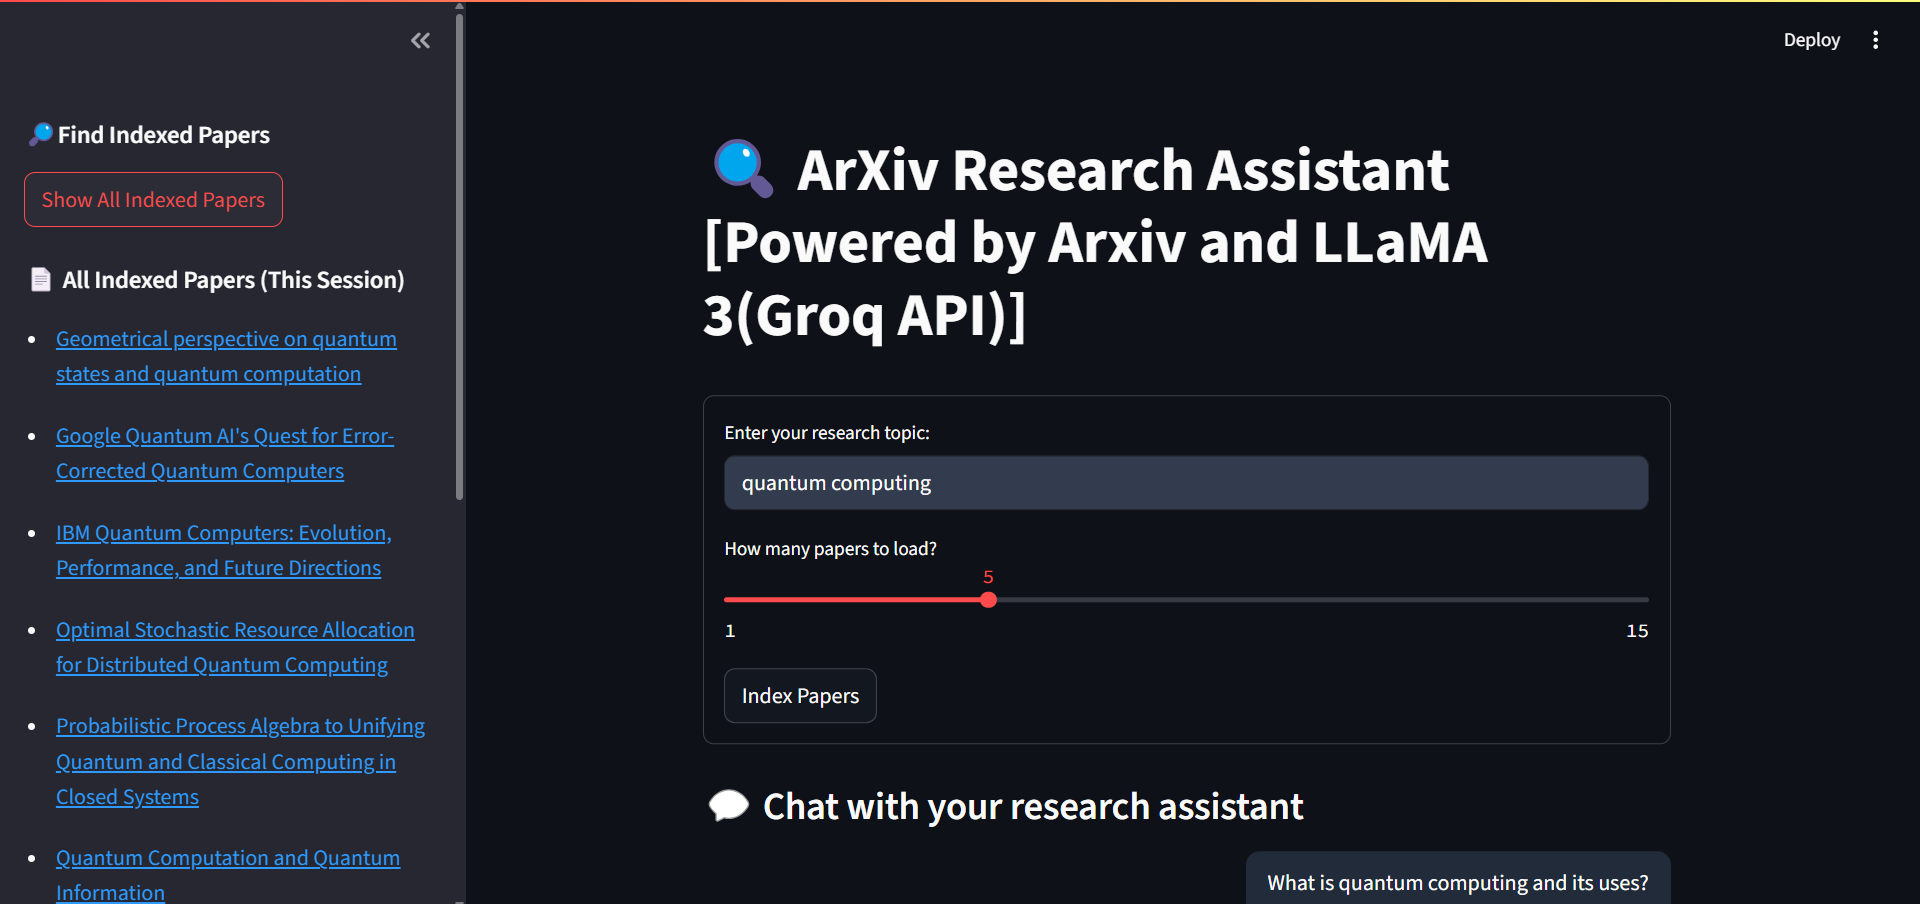
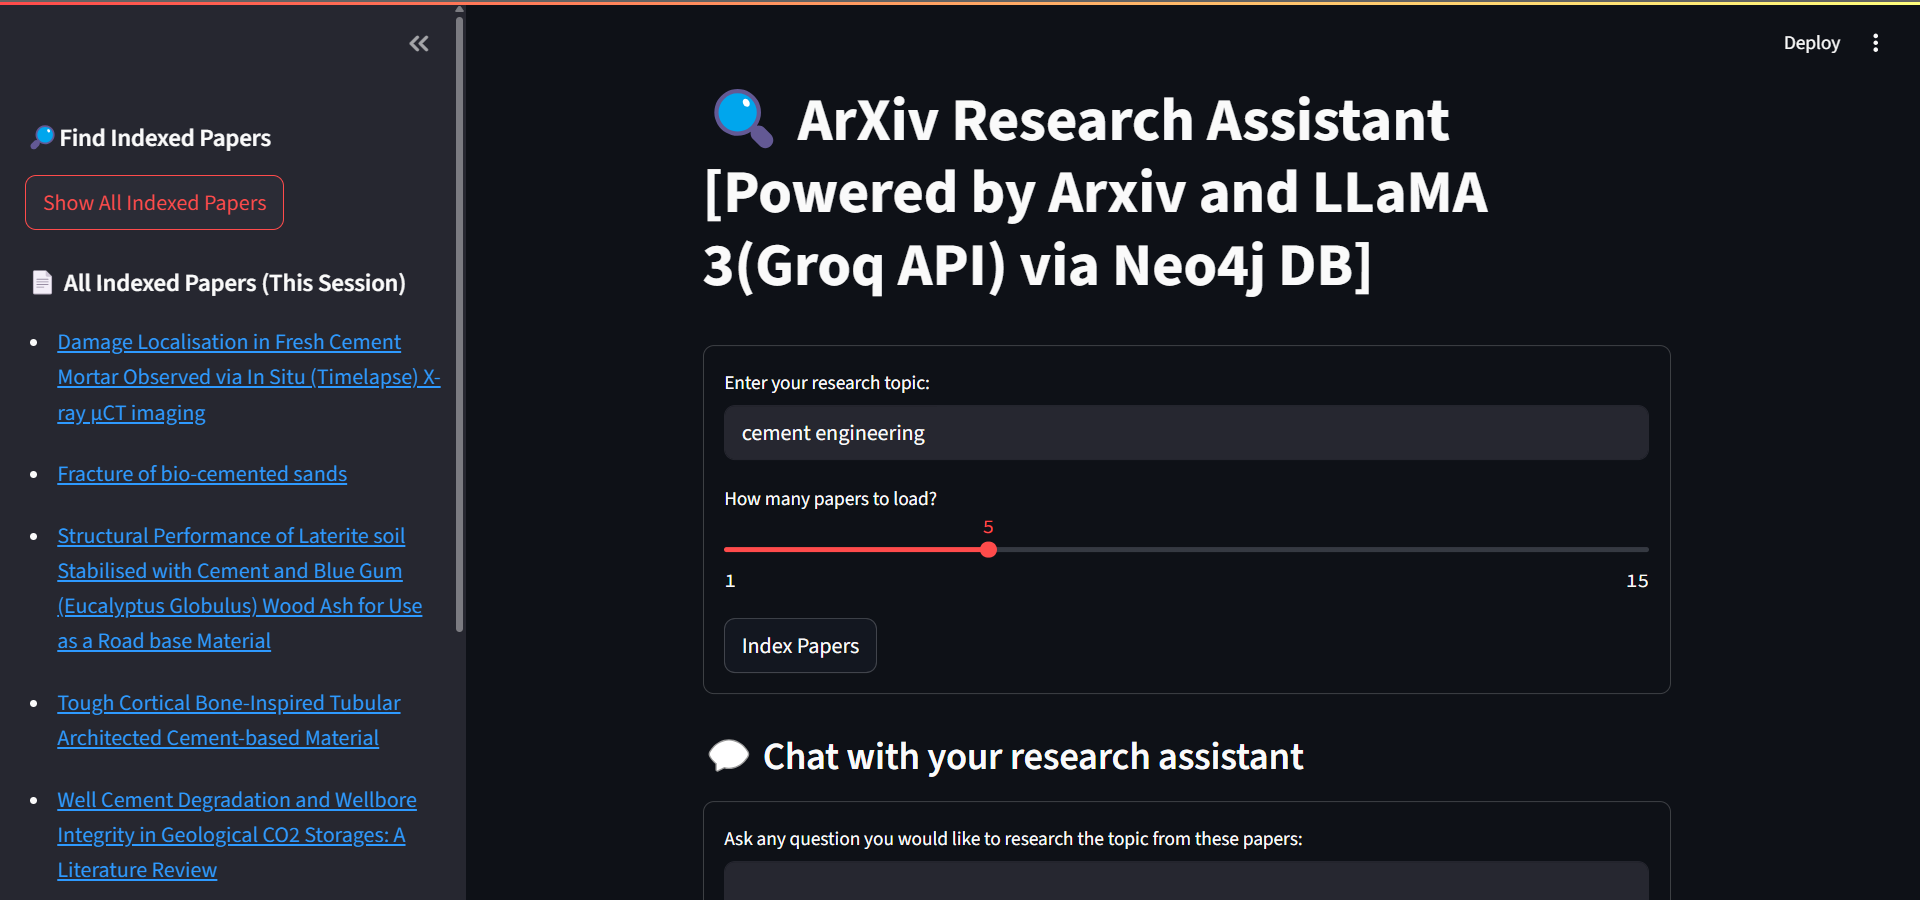
Added groq api  key authentication and neo4j secrets

diff --git a/app.py b/app.py
@@ -2,7 +2,7 @@ import streamlit as st
 from rag_chain import build_rag_chain
 from rag_loader import load_and_index_arxiv
 
-st.title("🔍 ArXiv Research Assistant [Powered by Arxiv and LLaMA 3(Groq API)]")
+st.title("🔍 ArXiv Research Assistant [Powered by Arxiv and LLaMA 3(Groq API) via Neo4j DB]")
 
 # Minimal chat bubble CSS
 st.markdown("""
@@ -29,6 +29,33 @@ st.markdown("""
 </style>
 """, unsafe_allow_html=True)
 
+# --- Ask for API keys/passwords before anything else ---
+if "groq_api_key" not in st.session_state:
+    st.markdown("""
+    **ArXiv Research Assistant**  
+    This app lets you search, index, and chat with ArXiv papers using LLaMA 3 (via Groq API) and explore metadata relationships via Neo4j.  
+    - Enter a research topic to fetch and embed relevant ArXiv papers.
+    - Ask technical questions and get answers with sources.
+    - Explore indexed papers and authors using the sidebar.
+    """)
+    with st.form("credentials_form"):
+        st.markdown("#### Enter your credentials to start")
+        groq_api_key = st.text_input("Groq API Key", type="password")
+        submitted = st.form_submit_button("Start App")
+    if submitted and groq_api_key:
+        st.session_state.groq_api_key = groq_api_key
+        st.rerun()
+    st.stop()
+
+# --- Set other config constants ---
+GROQ_API_BASE = st.secrets["groq"]["api_base"]
+GROQ_MODEL = st.secrets["groq"]["model"]
+
+# Use Streamlit secrets for Neo4j
+NEO4J_URI = st.secrets["neo4j"]["uri"]
+NEO4J_USER = st.secrets["neo4j"]["user"]
+NEO4J_PASSWORD = st.secrets["neo4j"]["password"]
+
 if "indexed" not in st.session_state:
     st.session_state.indexed = False
 
@@ -42,6 +69,26 @@ if "chat_history" not in st.session_state:
 if "sources" not in st.session_state:
     st.session_state.sources = []  # List of source documents
 
+# --- Lazy import and inject credentials into modules ---
+import sys
+
+# Patch groq_llm.llm with user key
+import importlib
+groq_llm = importlib.import_module("groq_llm")
+groq_llm.llm = groq_llm.get_llm(
+    api_key=st.session_state.groq_api_key,
+    api_base=GROQ_API_BASE,
+    model=GROQ_MODEL
+)
+
+# Patch graph_builder.graph with secrets
+graph_builder = importlib.import_module("graph_builder")
+graph_builder.graph = graph_builder.get_graph(
+    uri=NEO4J_URI,
+    user=NEO4J_USER,
+    password=NEO4J_PASSWORD
+)
+
 # Step 1: User chooses topic
 with st.form("topic_form"):
     topic = st.text_input("Enter your research topic:")
@@ -50,14 +97,15 @@ with st.form("topic_form"):
 
 if submitted:
     with st.spinner("Fetching and embedding ArXiv papers..."):
-        load_and_index_arxiv(topic, k=num_papers)
+        load_and_index_arxiv(
+            topic, 
+            k=num_papers, 
+            graph=graph_builder.graph
+        )
         st.success("Done indexing papers.")
         st.session_state.indexed = True
-        # Query graph db for papers with this topic and store in session
-        from graph_builder import graph
         st.session_state.current_topic = topic
-        st.session_state.current_papers = graph.get_papers_by_topic(topic)
-        # Reset chat and sources when topic changes
+        st.session_state.current_papers = graph_builder.graph.get_papers_by_topic(topic)
         st.session_state.chat_history = []
         st.session_state.sources = []
 
@@ -65,7 +113,6 @@ if submitted:
 with st.sidebar:
     st.markdown("### 🔎Find Indexed Papers")
 
-    # --- Show only session's indexed papers ---
     if st.button("Show All Indexed Papers"):
         papers = st.session_state.get("current_papers", [])
         st.markdown("### 📄 All Indexed Papers (This Session)")
@@ -76,18 +123,15 @@ with st.sidebar:
             st.write("No papers indexed yet in this session.")
     
     st.markdown("### 🔎Find Indexed Papers by author name")
-    # --- Search by author name ---
     author_name = st.text_input("Enter author name here")
     if st.button("Search Papers by Author"):
-        from graph_builder import graph  # Use the shared graph instance
-        results = graph.get_papers_by_author(author_name)
+        results = graph_builder.graph.get_papers_by_author(author_name)
         for r in results:
             st.markdown(f"- [{r['title']}]({r['url']})")
 
 # Step 2: Chatbot QA
 if st.session_state.indexed:
     st.markdown("### 💬 Chat with your research assistant")
-    # Display chat history
     for i, (user_msg, assistant_msg) in enumerate(st.session_state.chat_history):
         st.markdown(
             f'<div style="display: flex; align-items: flex-start;">'
@@ -105,25 +149,21 @@ if st.session_state.indexed:
         query = st.text_input("Ask any question you would like to research the topic from these papers:", key="chat_input")
         ask_submitted = st.form_submit_button("Send")
     if ask_submitted and query.strip():
-        qa_chain = build_rag_chain()
+        qa_chain = build_rag_chain(llm=groq_llm.llm)
         result = qa_chain({"query": query})
-        # Append to chat history
         st.session_state.chat_history.append((query, result["result"]))
-        # Collect sources (accumulate unique sources)
         for doc in result["source_documents"]:
             if doc not in st.session_state.sources:
                 st.session_state.sources.append(doc)
-        st.rerun()  # Refresh to show new chat
+        st.rerun()
 
-    # Show sources only at the end of the conversation (if any exchanges)
     if st.session_state.chat_history and st.session_state.sources:
         st.markdown("---")
-        st.markdown("### 📚 Sources (for this session)")
+        st.markdown("### 📚 Sources")
         shown = set()
         for doc in st.session_state.sources:
             title = doc.metadata.get("title", "Untitled")
             url = doc.metadata.get("url", "#")
-            # Avoid duplicate links
             if url not in shown:
                 st.markdown(f"- [{title}]({url})", unsafe_allow_html=True)
                 shown.add(url)

diff --git a/rag_loader.py b/rag_loader.py
@@ -3,9 +3,8 @@ from langchain.text_splitter import RecursiveCharacterTextSplitter
 from langchain_community.embeddings import SentenceTransformerEmbeddings
 from langchain_community.vectorstores import FAISS
 from langchain_core.documents import Document
-from graph_builder import graph
 
-def load_and_index_arxiv(query: str, k=5):
+def load_and_index_arxiv(query: str, k=5, graph=None):
     search = arxiv.Search(
         query=query,
         max_results=k,
@@ -27,7 +26,8 @@ def load_and_index_arxiv(query: str, k=5):
 
         # Add paper to Neo4j
         authors_list = [a.strip() for a in metadata["authors"].split(",")]
-        graph.add_paper(metadata["title"], metadata["url"], authors_list, query)  # query used as topic
+        if graph is not None:
+            graph.add_paper(metadata["title"], metadata["url"], authors_list, query)  # query used as topic
 
     # Split and embed for FAISS
     splitter = RecursiveCharacterTextSplitter(chunk_size=500, chunk_overlap=100)

diff --git a/groq_llm.py b/groq_llm.py
@@ -1,12 +1,12 @@
 from langchain_community.chat_models import ChatOpenAI
-from dotenv import load_dotenv
-import os
 
-load_dotenv()
-
-llm = ChatOpenAI(
-    openai_api_key=os.getenv("GROQ_API_KEY"),
-    openai_api_base=os.getenv("GROQ_API_BASE"),
-    model=os.getenv("GROQ_MODEL"),
-    temperature=0.2
-)
+def get_llm(api_key, api_base, model):
+    return ChatOpenAI(
+        openai_api_key=api_key,
+        openai_api_base=api_base,
+        model=model,
+        temperature=0.2
+    )
+#     model=os.getenv("GROQ_MODEL"),
+#     temperature=0.2
+# )

diff --git a/rag_chain.py b/rag_chain.py
@@ -2,11 +2,9 @@ from langchain.chains import RetrievalQA
 from langchain_community.vectorstores import FAISS
 from langchain_community.embeddings import SentenceTransformerEmbeddings
 from langchain.prompts import PromptTemplate
-from langchain.chains import LLMChain
-from groq_llm import llm
 from prompt_template import system_prompt
 
-def build_rag_chain():
+def build_rag_chain(llm):
     db = FAISS.load_local(
         "faiss_arxiv",
         SentenceTransformerEmbeddings(model_name="all-MiniLM-L6-v2"),

diff --git a/graph_builder.py b/graph_builder.py
@@ -1,12 +1,13 @@
 from graph_db import GraphDB
-from dotenv import load_dotenv
-import os
 
-load_dotenv()
+def get_graph(uri, user, password):
+    return GraphDB(uri, user, password)
+
+# load_dotenv()
 
 
-graph = GraphDB(
-    os.getenv("NEO4J_URI"),
-    os.getenv("NEO4J_USER"),
-    os.getenv("NEO4J_PASSWORD")
-)
+# graph = GraphDB(
+#     os.getenv("NEO4J_URI"),
+#     os.getenv("NEO4J_USER"),
+#     os.getenv("NEO4J_PASSWORD")
+# )

diff --git a/README.md b/README.md
@@ -11,13 +11,14 @@ A Streamlit-based research assistant that leverages ArXiv papers and LLaMA 3 (vi
 - **Graph database (Neo4j) integration**: Stores metadata and relationships between papers, authors, and topics.
 - - **Search indexed papers** by all or by author using the Neo4j graph database.
 - **FAISS + Sentence Transformers** for fast vector search.
-- **LangChain**: Used lanchianfor RAG workflows.
+- **LangChain**: Used langchian for RAG workflows.
 - **Streamlit UI**: Easy-to-use web interface.
 
 ---
 
 ## Demo
 
+![demo-screenshot-9](static/demo0.png)
 ![demo-screenshot-1](static/demo1.png)
 ![demo-screenshot-2](static/demo2.png)
 ---
